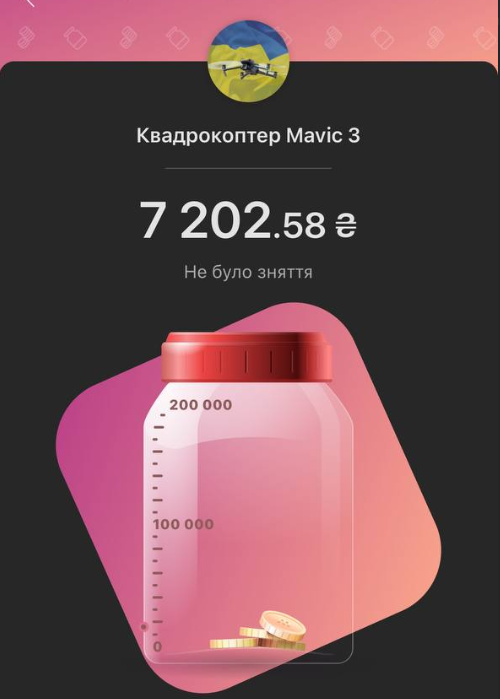
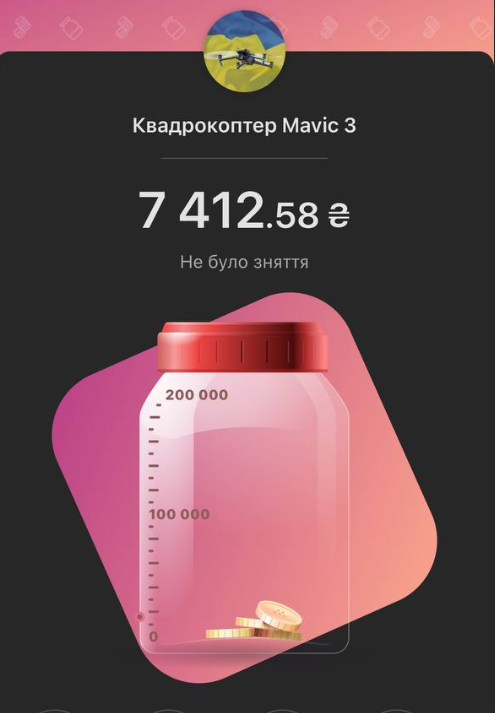
Changes price

diff --git a/index.html b/index.html
@@ -76,7 +76,7 @@
         <a class="item" href="/?result=true" target="_blank">
           <div class="text-menu text-result">
             <span
-              >Всього зібрано: 19 808.08₴ (Результат оновлюється 21:00)</span
+              >Всього зібрано: 20 018.08₴ (Результат оновлюється 21:00)</span
             >
           </div>
         </a>
@@ -92,7 +92,7 @@
     ></video>
 
     <div class="cards-result" id="cards-result">
-      <h1>Всього зібрано: 19 808.08₴</h1>
+      <h1>Всього зібрано: 20 018.08₴</h1>
       <div class="card">
         <img src="./image/result/MONO.PNG" alt="Image not found" />
         <img src="./image/result/PRIVAT.PNG" alt="Image not found" />
